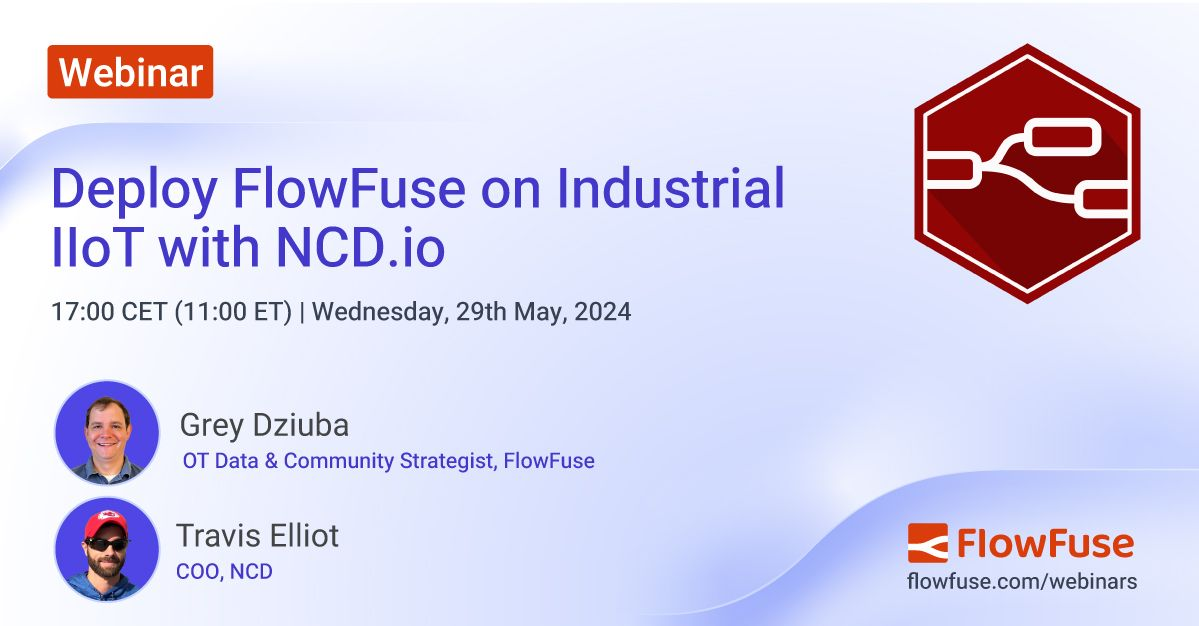
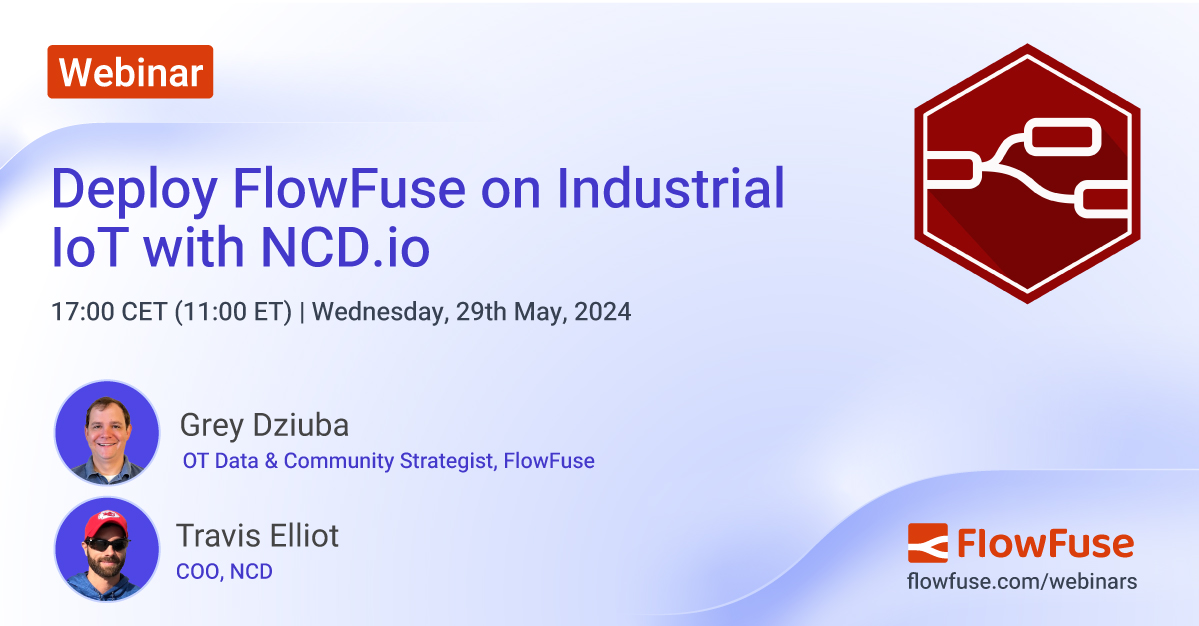
Update webinar title

diff --git a/src/webinars/2024/deploy-flowfuse-on-industrial-iot-with-ncd-io.md b/src/webinars/2024/deploy-flowfuse-on-industrial-iot-with-ncd-io.md
@@ -1,20 +1,18 @@
 ---
-title: "Deploy FlowFuse on Industrial IIoT with NCD.io"
+title: "Deploy FlowFuse on Industrial IoT with NCD.io"
 subtitle: In this webinar, we focus on how integrating Node-Red and robust hardware from NCD.io forms a powerful solution for system integrators and developers in the industrial sector.
-description: Join our webinar on May 29, 2024, as Grey Dziuba and Travis Elliot explore the integration of FlowFuse with NCD.io’s IIoT solutions. Discover how Node-Red enhances data access and security in industrial networks. Ideal for engineers and system integrators looking to advance their IIoT strategies.
+description: Join our webinar on May 29, 2024, as Grey Dziuba and Travis Elliot explore the integration of FlowFuse with NCD.io’s IIoT solutions. Discover how Node-Red enhances data access and security in industrial networks. Ideal for engineers and system integrators looking to advance their IoT strategies.
 image: /images/webinars/ncd-io-and-flowfuse.jpg
-
 date: 2024-05-29
 time: 17:00 CET (11:00am ET) 
 duration: 60
 video:
 hosts: ["grey-dziuba"]
 hubspot:
-    formId: 45695dae-9102-4a06-a3d5-e38b3f82ab3a
-    
+    formId: 45695dae-9102-4a06-a3d5-e38b3f82ab3a    
 ---
 
-**Discover how to overcome industrial IIoT challenges and how a low-code platform can enhance data access and securty across various industries.**
+**Discover how to overcome Industrial IoT challenges and how a low-code platform can enhance data access and securty across various industries.**
 
 <!--more-->
 
